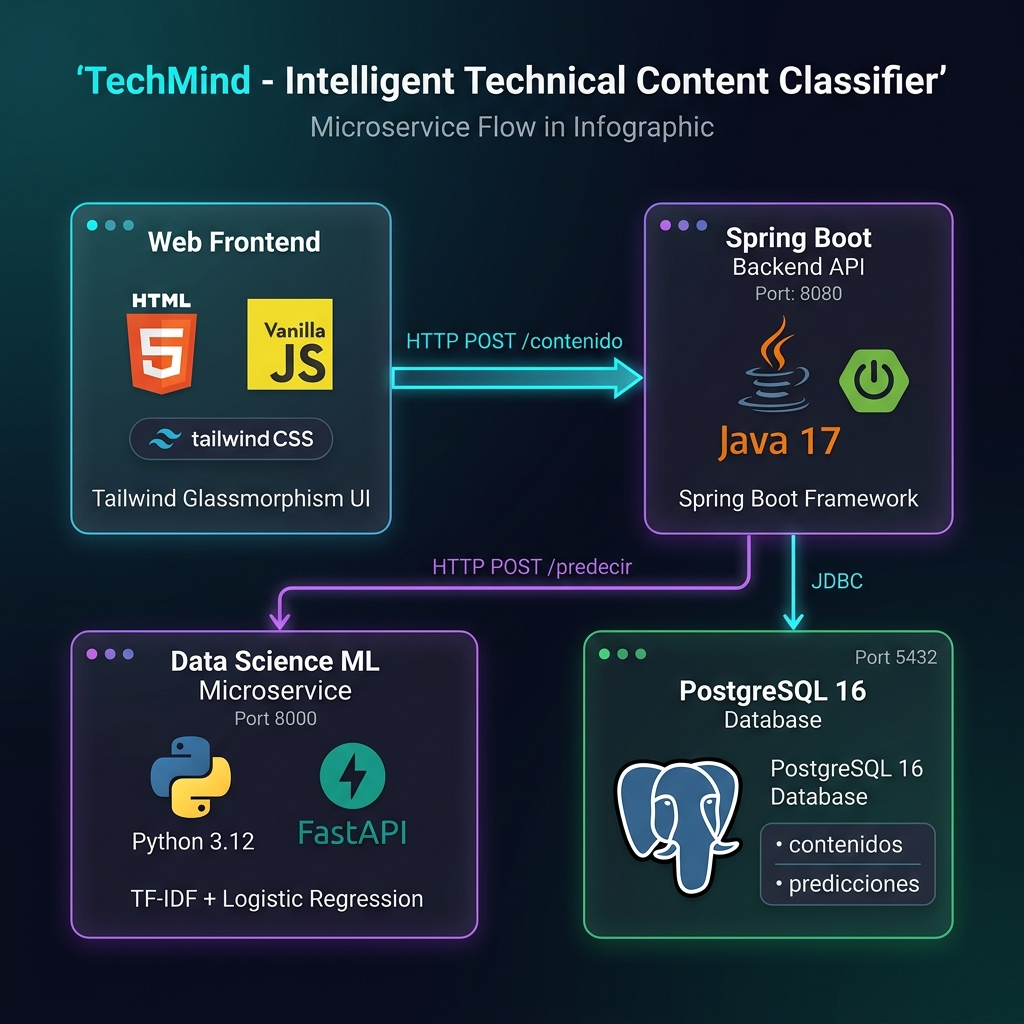
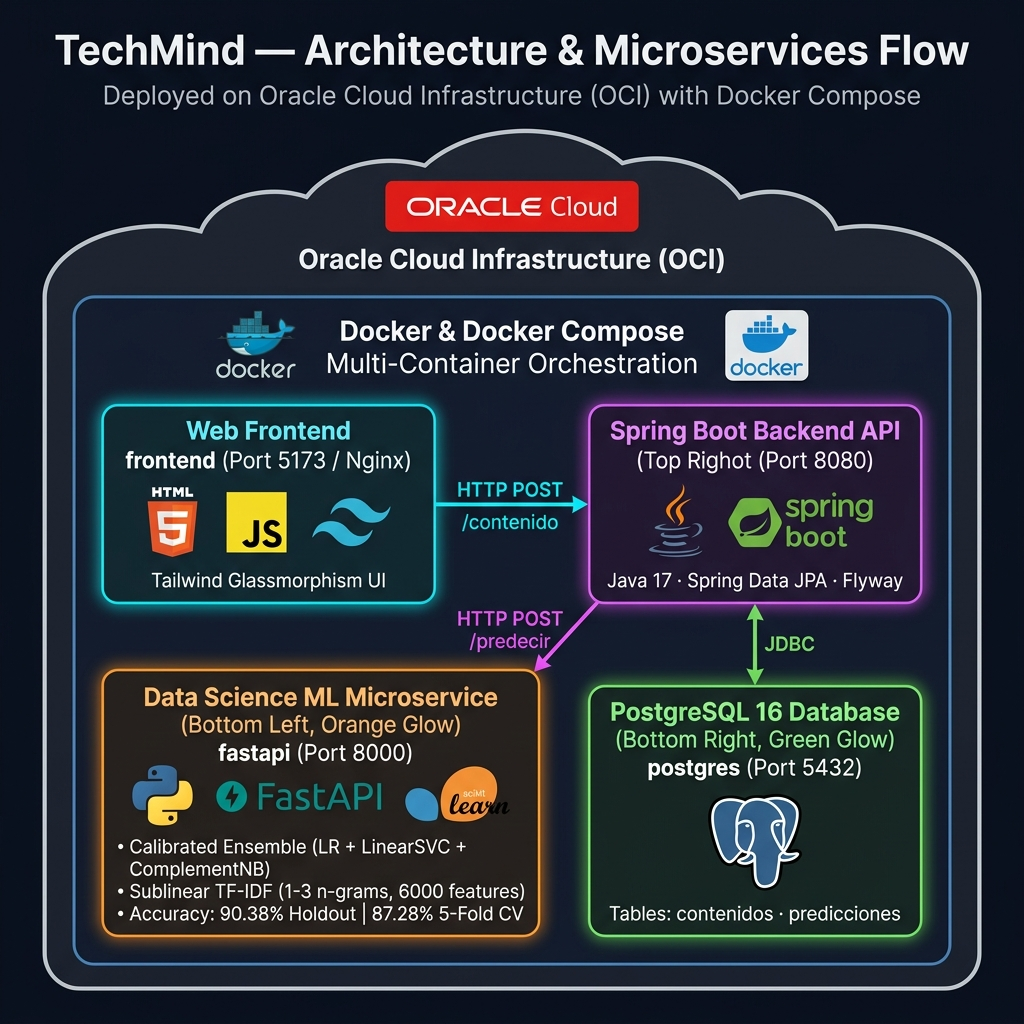
Update README: architecture diagram and ML stack
Replace ASCII architecture with OCI / Docker Compose diagram and updated project flow image. Expand ML section: TfidfVectorizer now sublinear with 6,000 features and n-grams 1–3; introduce a calibrated ensemble (VotingClassifier soft voting combining LogisticRegression, CalibratedClassifierCV(LinearSVC) and ComplementNB); add Stratified CV results (87.28% CV, 90.38% holdout) and note data augmentation with Pandas. Minor wording and formatting improvements.

diff --git a/README.md b/README.md
@@ -38,24 +38,31 @@ TechMind es una plataforma web inteligente para la **organización y clasificaci
 </div>
 
 ```
-  ┌─────────────────────────────────────────────────────────────────────────┐
-  │                      Cliente Web (Navegador)                            │
-  │                      HTML5 + JS Vanilla + TailwindCSS                   │
-  │                      http://localhost:5173                              │
-  └────────────────────────────────────┬────────────────────────────────────┘
-                                       │ HTTP POST /contenido
-                                       ▼
-  ┌─────────────────────────────────────────────────────────────────────────┐
-  │              API Backend Principal — Spring Boot (Java 17)              │
-  │              Puerto 8080 · JPA / Hibernate · Flyway Migrations          │
-  └──────────────┬──────────────────────────────────────────┬───────────────┘
-                 │ HTTP POST /predecir                      │ JDBC
-                 ▼                                          ▼
-  ┌──────────────────────────────┐          ┌──────────────────────────────┐
-  │ Microservicio Data Science   │          │ Base de Datos PostgreSQL 16  │
-  │ FastAPI (Python) · :8000     │          │ Puerto 5432                  │
-  │ TF-IDF + LogisticRegression  │          │ contenidos · predicciones    │
-  └──────────────────────────────┘          └──────────────────────────────┘
+┌───────────────────────────────────────────────────────────────────────────────────┐
+│                    Oracle Cloud Infrastructure (OCI)                              │
+│ ┌───────────────────────────────────────────────────────────────────────────────┐ │
+│ │                  Docker & Docker Compose Multi-Container                      │ │
+│ │                                                                               │ │
+│ │ ┌───────────────────────────────────────────────────────────────────────────┐ │ │
+│ │ │                   Cliente Web / Frontend (Nginx)                          │ │ │
+│ │ │                   HTML5 + JS Vanilla + TailwindCSS                        │ │ │
+│ │ │                   http://localhost:5173                                   │ │ │
+│ │ └─────────────────────────────────────┬─────────────────────────────────────┘ │ │
+│ │                                       │ HTTP POST /contenido                  │ │
+│ │                                       ▼                                       │ │
+│ │ ┌───────────────────────────────────────────────────────────────────────────┐ │ │
+│ │ │            API Backend Principal — Spring Boot (Java 17)                  │ │ │
+│ │ │            Puerto 8080 · JPA / Hibernate · Flyway Migrations              │ │ │
+│ │ └──────────────┬──────────────────────────────────────────┬─────────────────┘ │ │
+│ │                │ HTTP POST /predecir                      │ JDBC              │ │
+│ │                ▼                                          ▼                   │ │
+│ │ ┌──────────────────────────────┐          ┌──────────────────────────────┐ │ │
+│ │ │ Microservicio Data Science   │          │ Base de Datos PostgreSQL 16  │ │ │
+│ │ │ FastAPI (Python) · :8000     │          │ Puerto 5432                  │ │ │
+│ │ │ Ensamble Calibrado (LR+SVC)  │          │ contenidos · predicciones    │ │ │
+│ │ └──────────────────────────────┘          └──────────────────────────────┘ │ │
+│ └───────────────────────────────────────────────────────────────────────────────┘ │
+└───────────────────────────────────────────────────────────────────────────────────┘
 ```
 
 ---
@@ -74,9 +81,10 @@ TechMind es una plataforma web inteligente para la **organización y clasificaci
 - **Python 3.12**: Entorno de ejecución de inteligencia artificial.
 - **FastAPI & Uvicorn**: Microservicio asíncrono de alto rendimiento.
 - **Scikit-Learn**:
-  - `TfidfVectorizer` (3.000 características, unigramas y bigramas) para extracción de features y keywords.
-  - `LogisticRegression` (con pesos de clase balanceados) para la clasificación temática.
-- **Pandas & NumPy**: Procesamiento y limpieza del dataset técnico.
+  - `TfidfVectorizer` (sublineal, 6.000 características, n-gramas 1 a 3) para extracción de features y keywords.
+  - **Ensamble Calibrado (`VotingClassifier` Soft Voting)**: combina `LogisticRegression`, `CalibratedClassifierCV(LinearSVC)` y `ComplementNB` para máxima precisión y estimación de confianza.
+  - **Validación Cruzada Estratificada (K=5)** en desarrollo/notebook (87.28% CV Accuracy, 90.38% Holdout).
+- **Pandas & NumPy**: Procesamiento, augmentación de datos y limpieza del dataset técnico.
 - **Joblib**: Serialización y des-serialización de modelos entrenados.
 
 ### 🎨 Front-End (Web UI)
